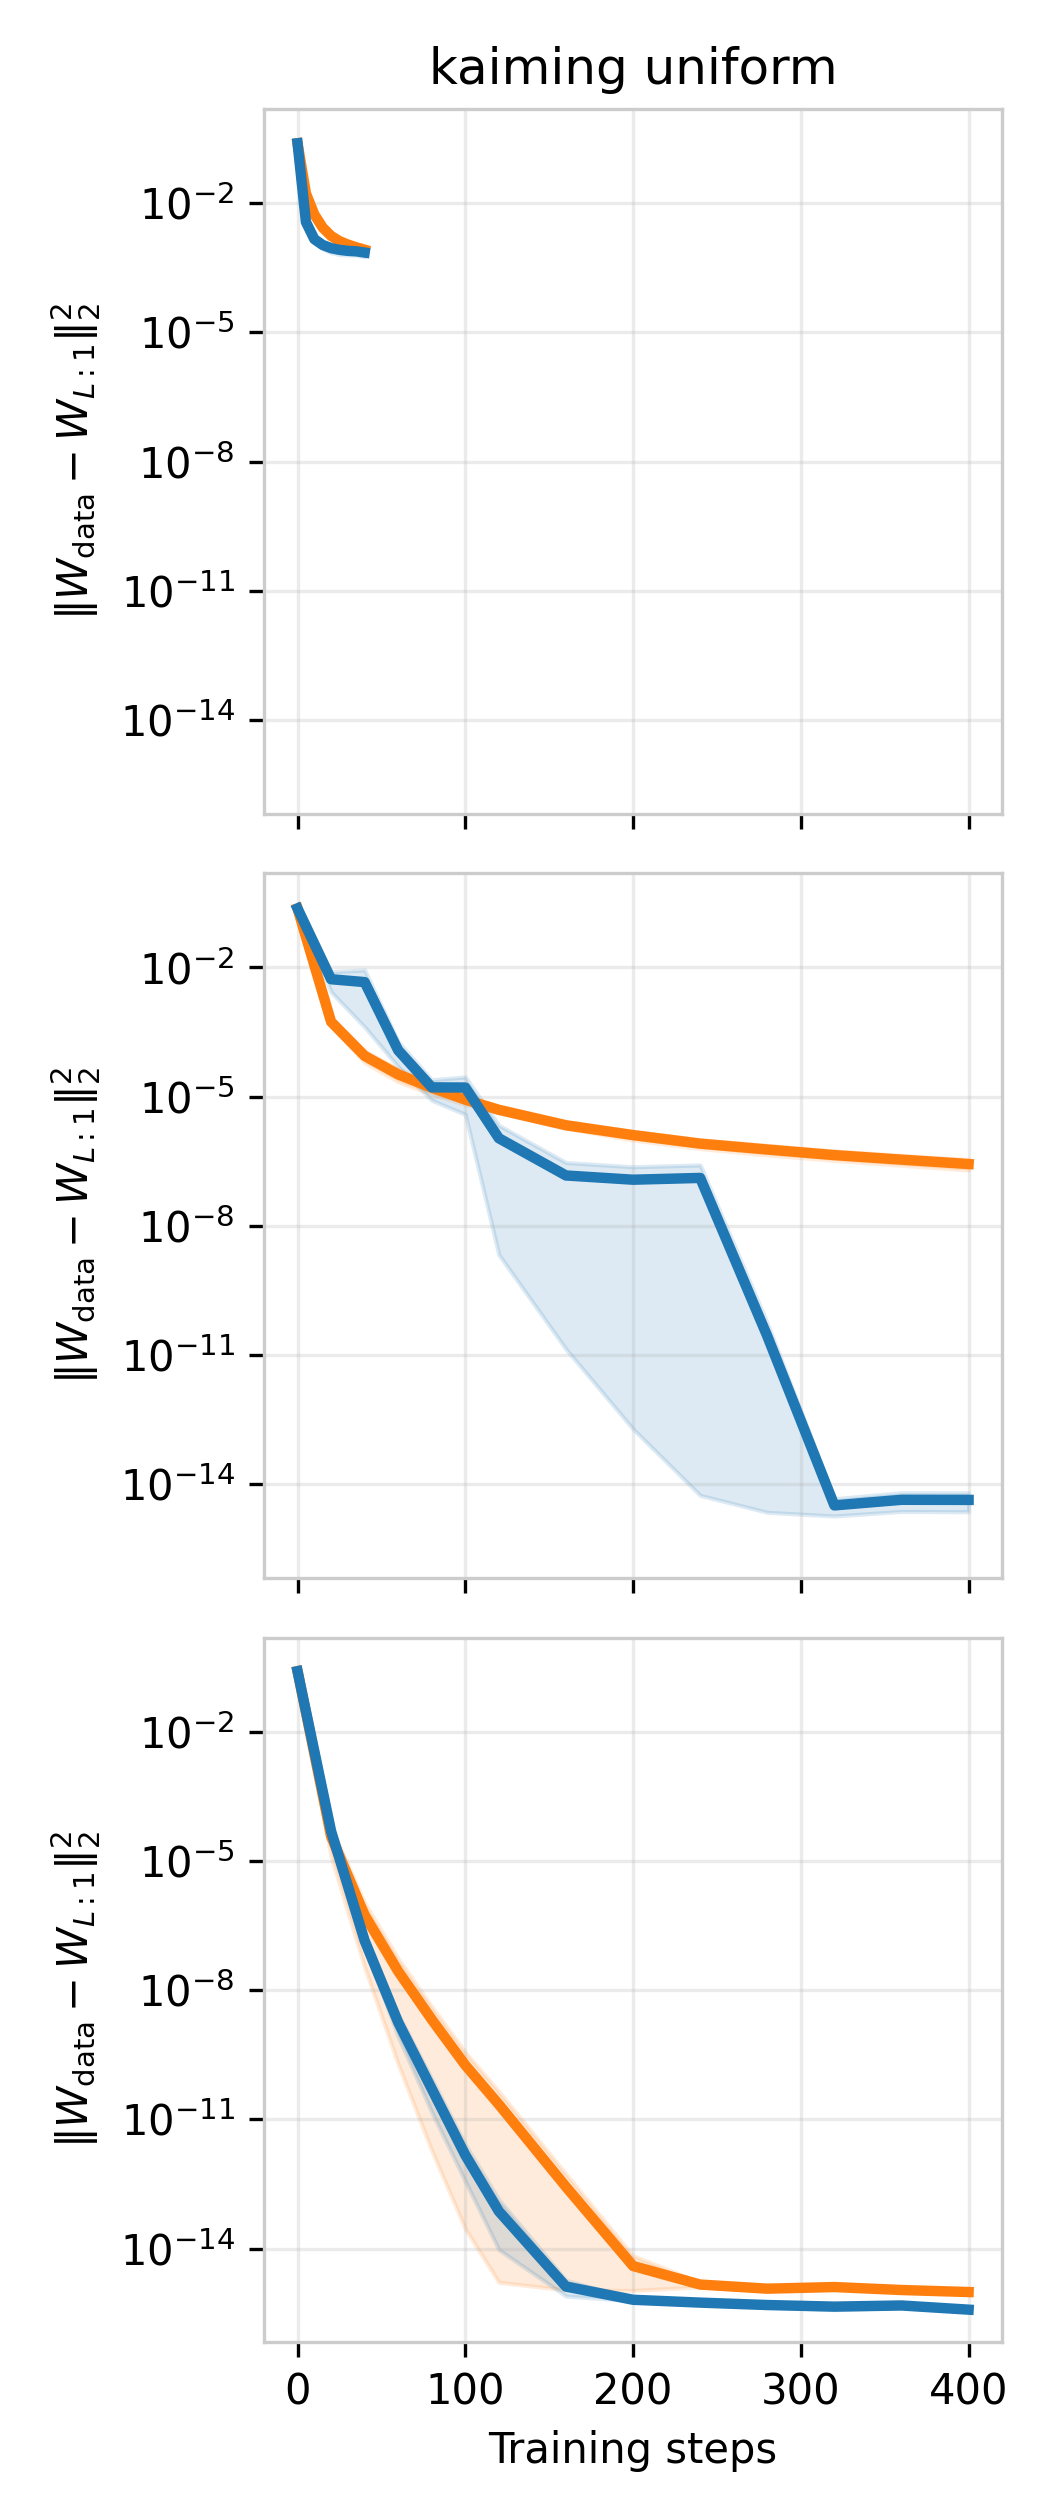
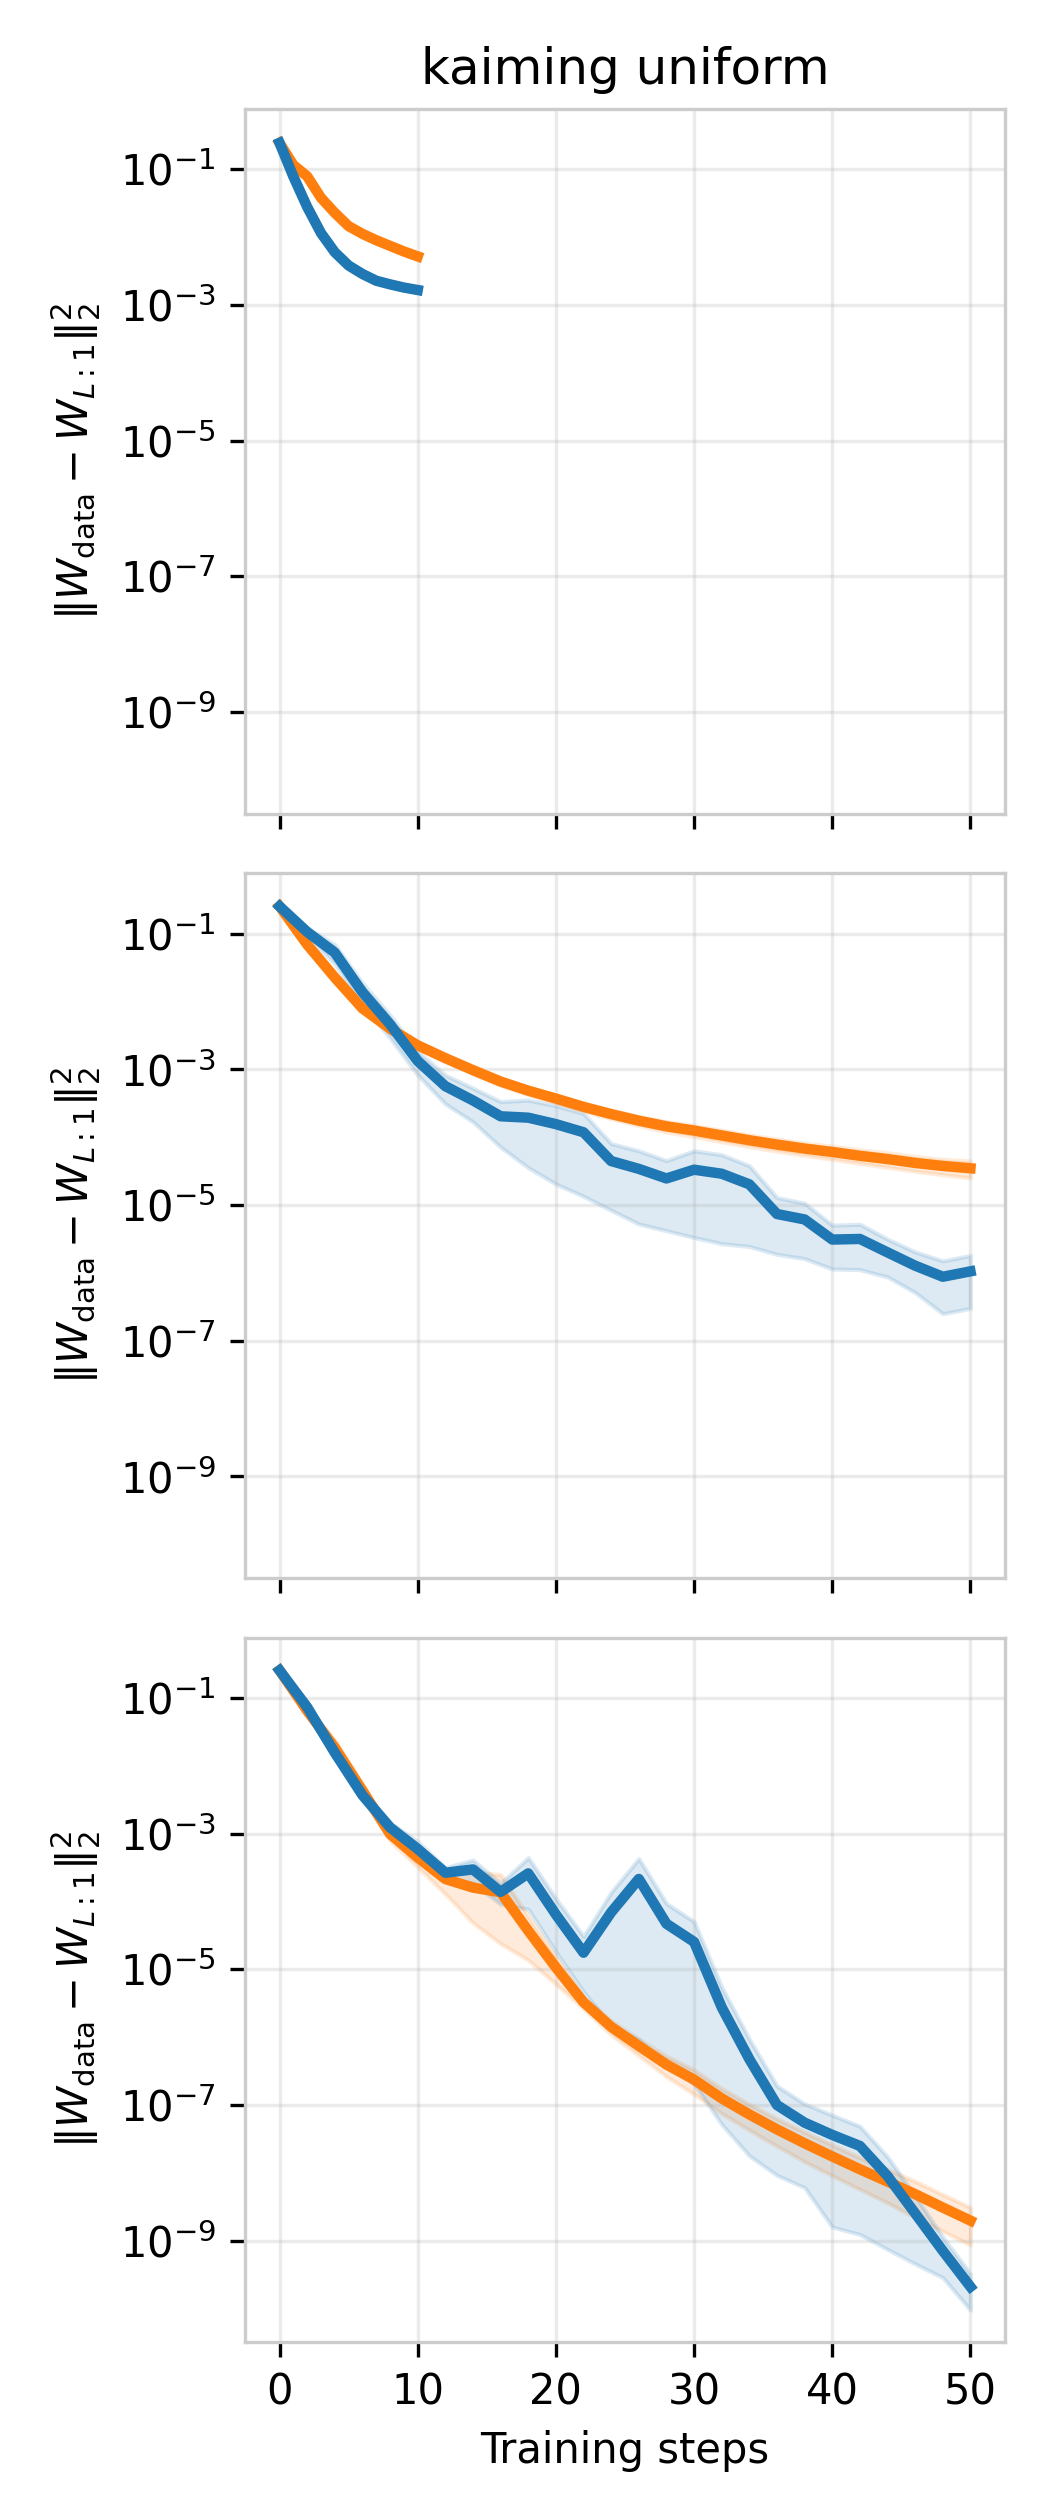
.

diff --git a/Figure2/figure2.py b/Figure2/figure2.py
@@ -340,7 +340,7 @@ import matplotlib.pyplot as plt
 
 
 # ===================== CONFIG =====================
-seeds = [0, 1, 2]#, 3, 4]
+seeds = [0, 1, 2, 3, 4, 5, 6, 7, 8, 9]
 numruns = len(seeds)
 
 device = torch.device("cuda" if torch.cuda.is_available() else "cpu")
@@ -511,7 +511,7 @@ def fresh_models(base_state, hidden_dim):
 
 
 # ===================== EXPERIMENT =====================
-inits = ["kaiming_uniform"] #["lecun_normal"] #["kaiming_uniform", "lecun_normal"]
+inits = ["lecun_normal"] #["kaiming_uniform", "lecun_normal"]
 
 lr_sweep_rows = []     # per seed, width, init, model, lr -> test_mse
 curve_rows    = []     # per seed, width, init, model, step -> test_mse
@@ -527,9 +527,9 @@ for seed in seeds:
     for hidden_dim in widths:
         print(hidden_dim)
         if hidden_dim == 15:
-            max_steps_sweep = 40#00 #2000
-            max_steps_curve = 40#00 #2000
-            eval_every      = 10#00
+            max_steps_sweep = 10#00 #2000
+            max_steps_curve = 10#00 #2000
+            eval_every      = 2#00
 
             # LR grid (base grid; we optionally amplify for some models)
             # lrs = np.linspace(10**(-3.5), 10**(-0.02), 5) #(-2.9, -0.04, 15)  # ~ 1e-4 ... 1.6e-1
@@ -543,9 +543,9 @@ for seed in seeds:
             amplify_lr_PC = 1#25#3#50    # for BP only (if you want)
         
         if hidden_dim == 20:
-            max_steps_sweep = 400#00 #2000
-            max_steps_curve = 400#00 #2000
-            eval_every      = 40#00
+            max_steps_sweep = 300#00 #2000
+            max_steps_curve = 300#00 #2000
+            eval_every      = 5#00
 
             # LR grid (base grid; we optionally amplify for some models)
             #lrs = np.linspace(10**(-3.5), 10**(-0.02), 5) #(-2.9, -0.04, 15)  # ~ 1e-4 ... 1.6e-1
@@ -557,9 +557,9 @@ for seed in seeds:
             amplify_lr_PC = 1.4#5#3#50    # for BP only (if you want)
         
         if hidden_dim == 40:
-            max_steps_sweep = 400#00 #2000
-            max_steps_curve = 400#00 #2000
-            eval_every      = 40#00
+            max_steps_sweep = 50#00 #2000
+            max_steps_curve = 50#00 #2000
+            eval_every      = 5#00
 
             # LR grid (base grid; we optionally amplify for some models)
             #lrs = np.linspace(10**(-3.5), 10**(-0.02), 5) #(-2.9, -0.04, 15)  # ~ 1e-4 ... 1.6e-1
@@ -670,7 +670,7 @@ agg_cur = (
 
 # ===================== PLOT: best curves, one line per width =====================
 # --- choose orderings ---
-inits_order = ["kaiming_uniform"] #["lecun_normal"]#["kaiming_uniform", "lecun_normal"]
+inits_order = ["lecun_normal"]#["kaiming_uniform", "lecun_normal"]
 models_order = ["BP", "BP (scaled lr)", "PC", "PC (scaled lr)"]
 widths_order = sorted(agg_cur["width"].unique())
 
